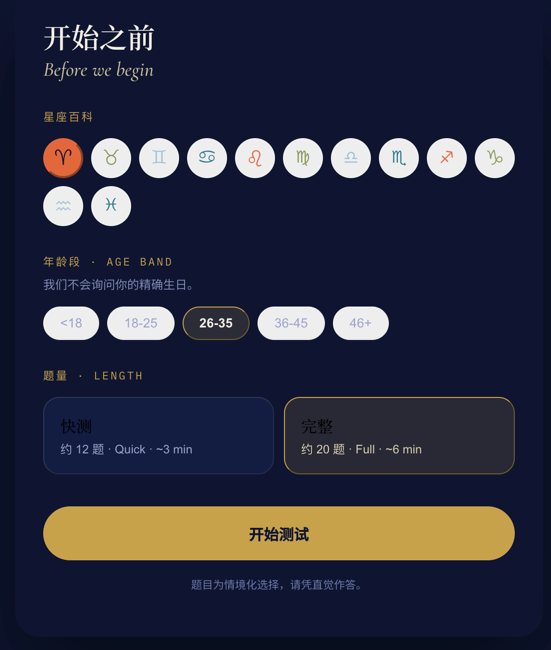
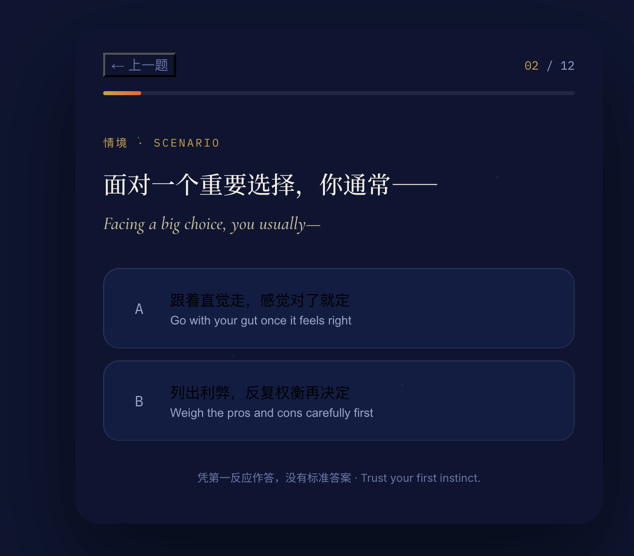
fix(ui): buttons inherit text color/font so answer-option text isn't near-black
The button-background reset zeroed background but not color/font, so <button> text fell back to the native black 'buttontext' instead of the panel's bone — making the answer options' primary Chinese text unreadable. Add color:inherit; font:inherit (Tailwind-preflight style). Verified against a real render: option text now bone, glyphs still monochrome (font-variant-emoji is not part of the font shorthand).

diff --git a/src/assets/css/tokens.css b/src/assets/css/tokens.css
@@ -48,6 +48,8 @@ button {
   background-image: none;
   appearance: none;
   -webkit-appearance: none;
+  color: inherit;
+  font: inherit;
 }
 
 /* Zodiac glyphs must render as monochrome text (element-coloured), not colour